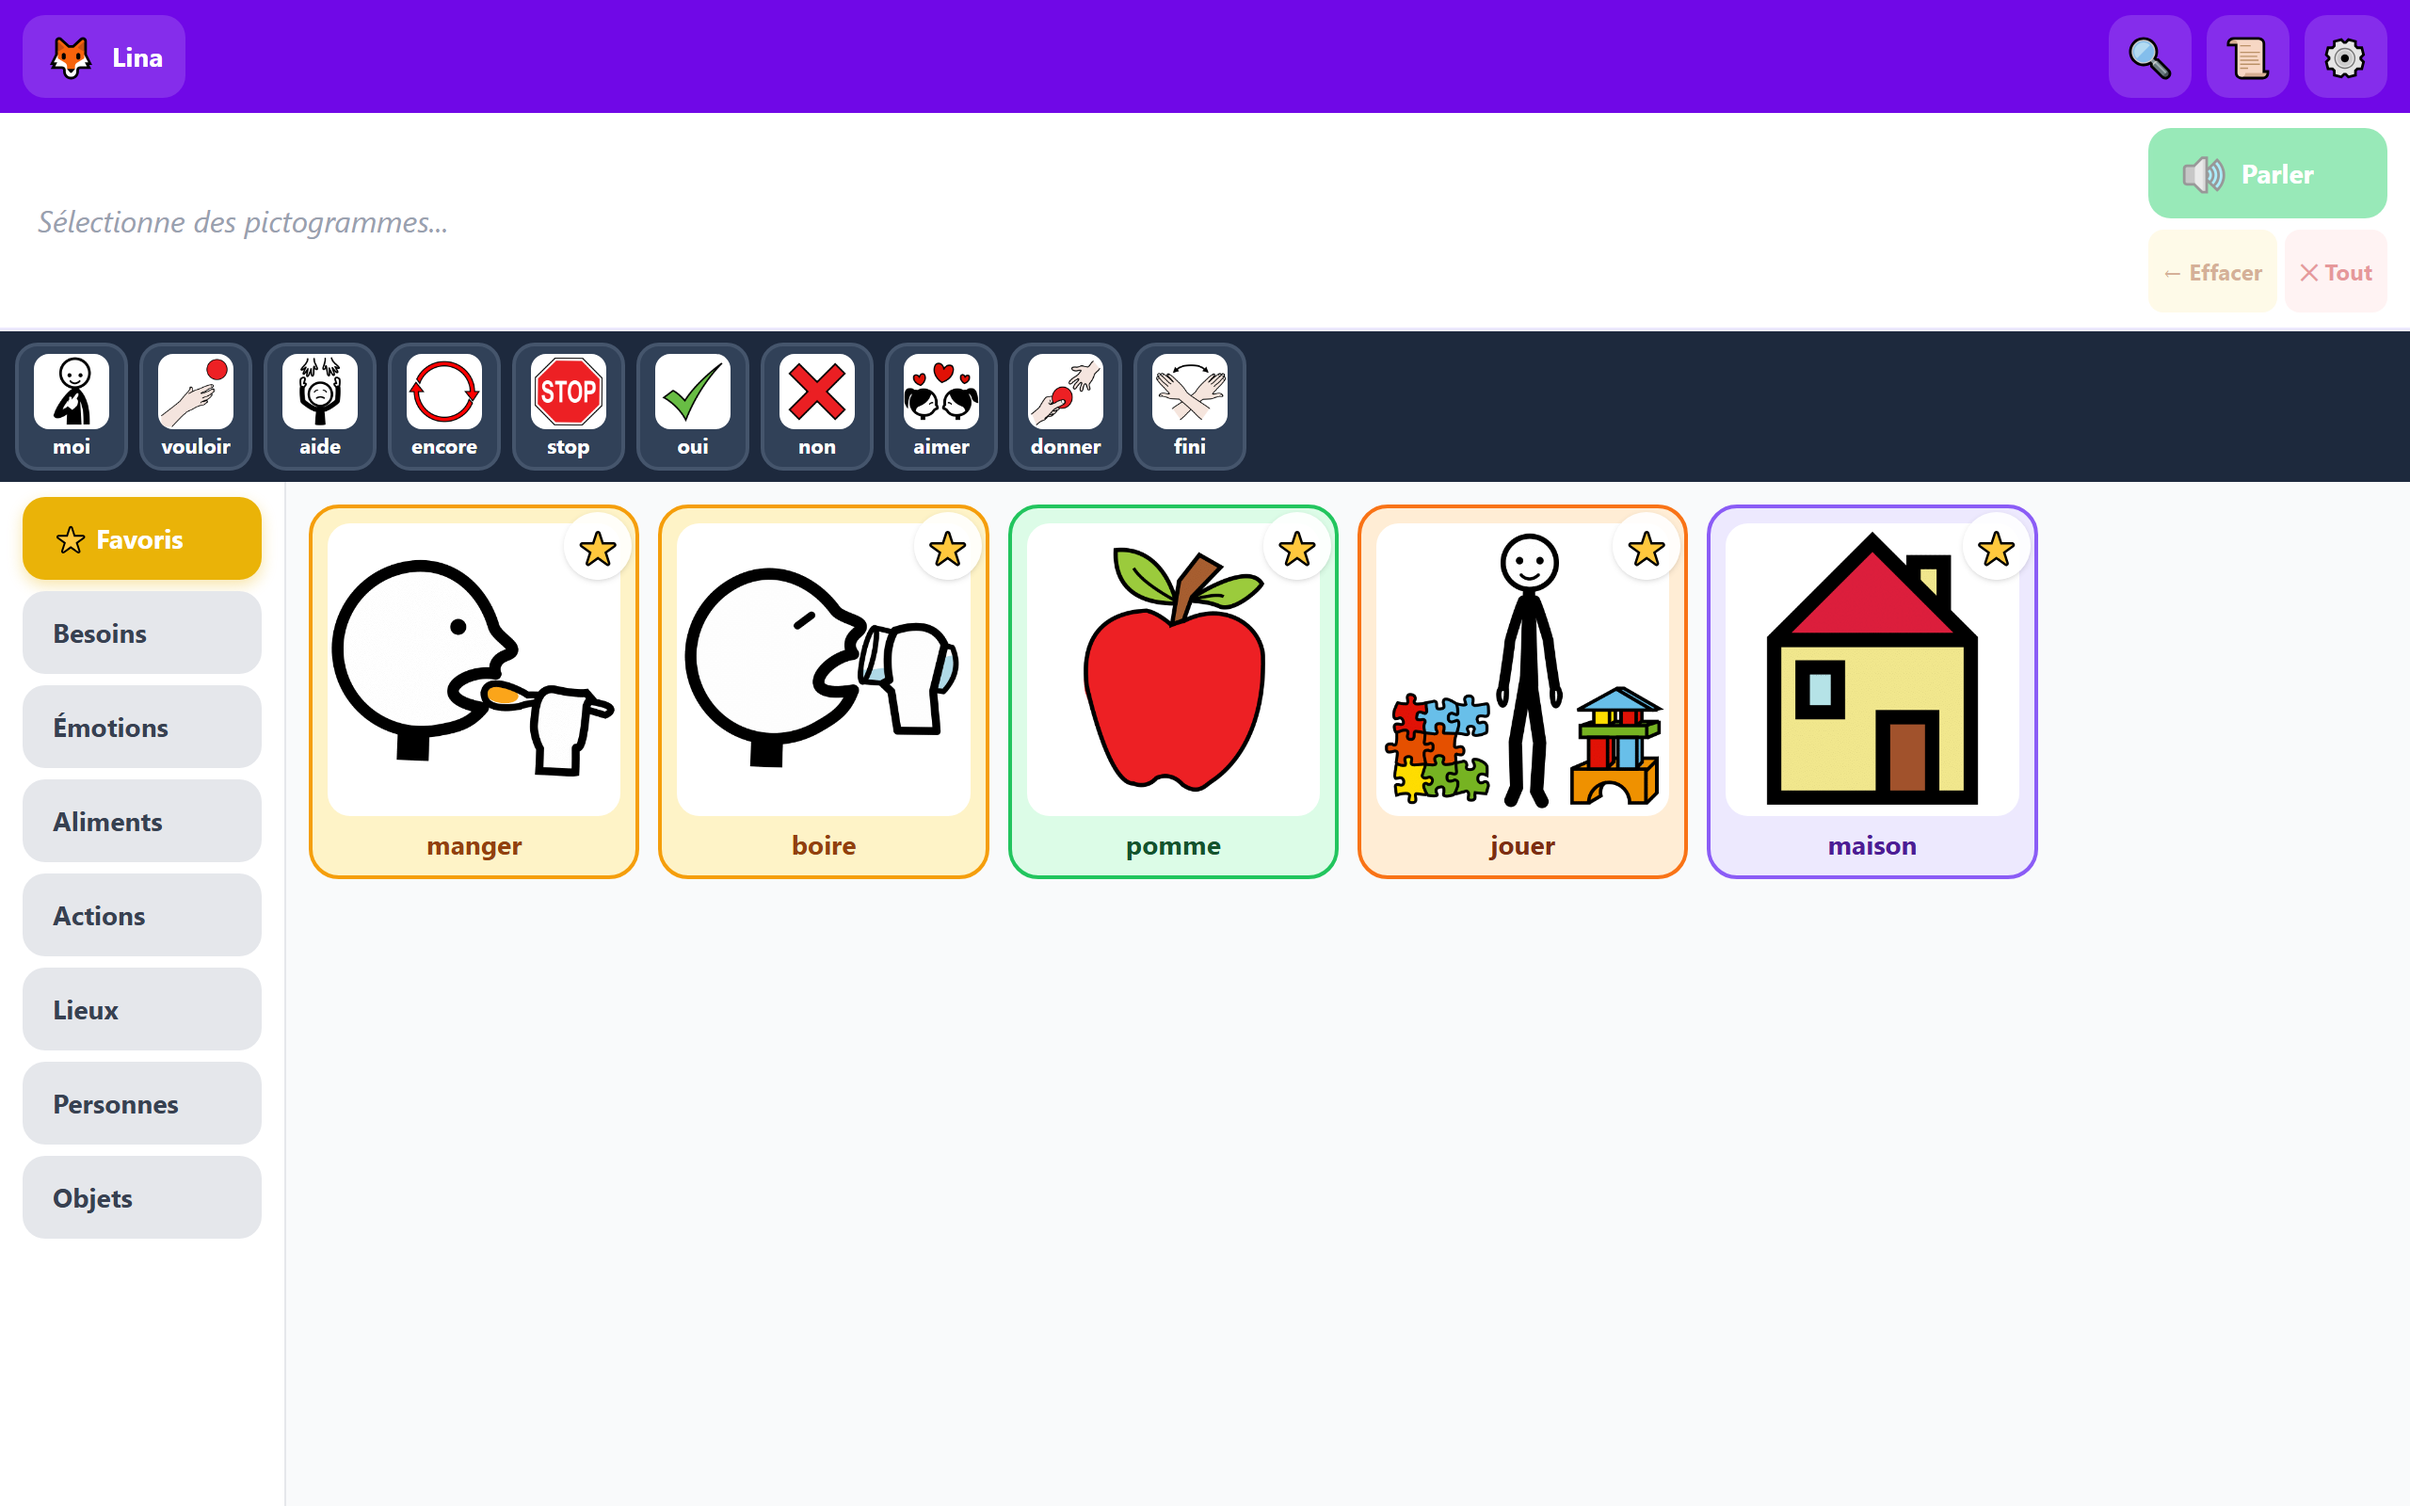
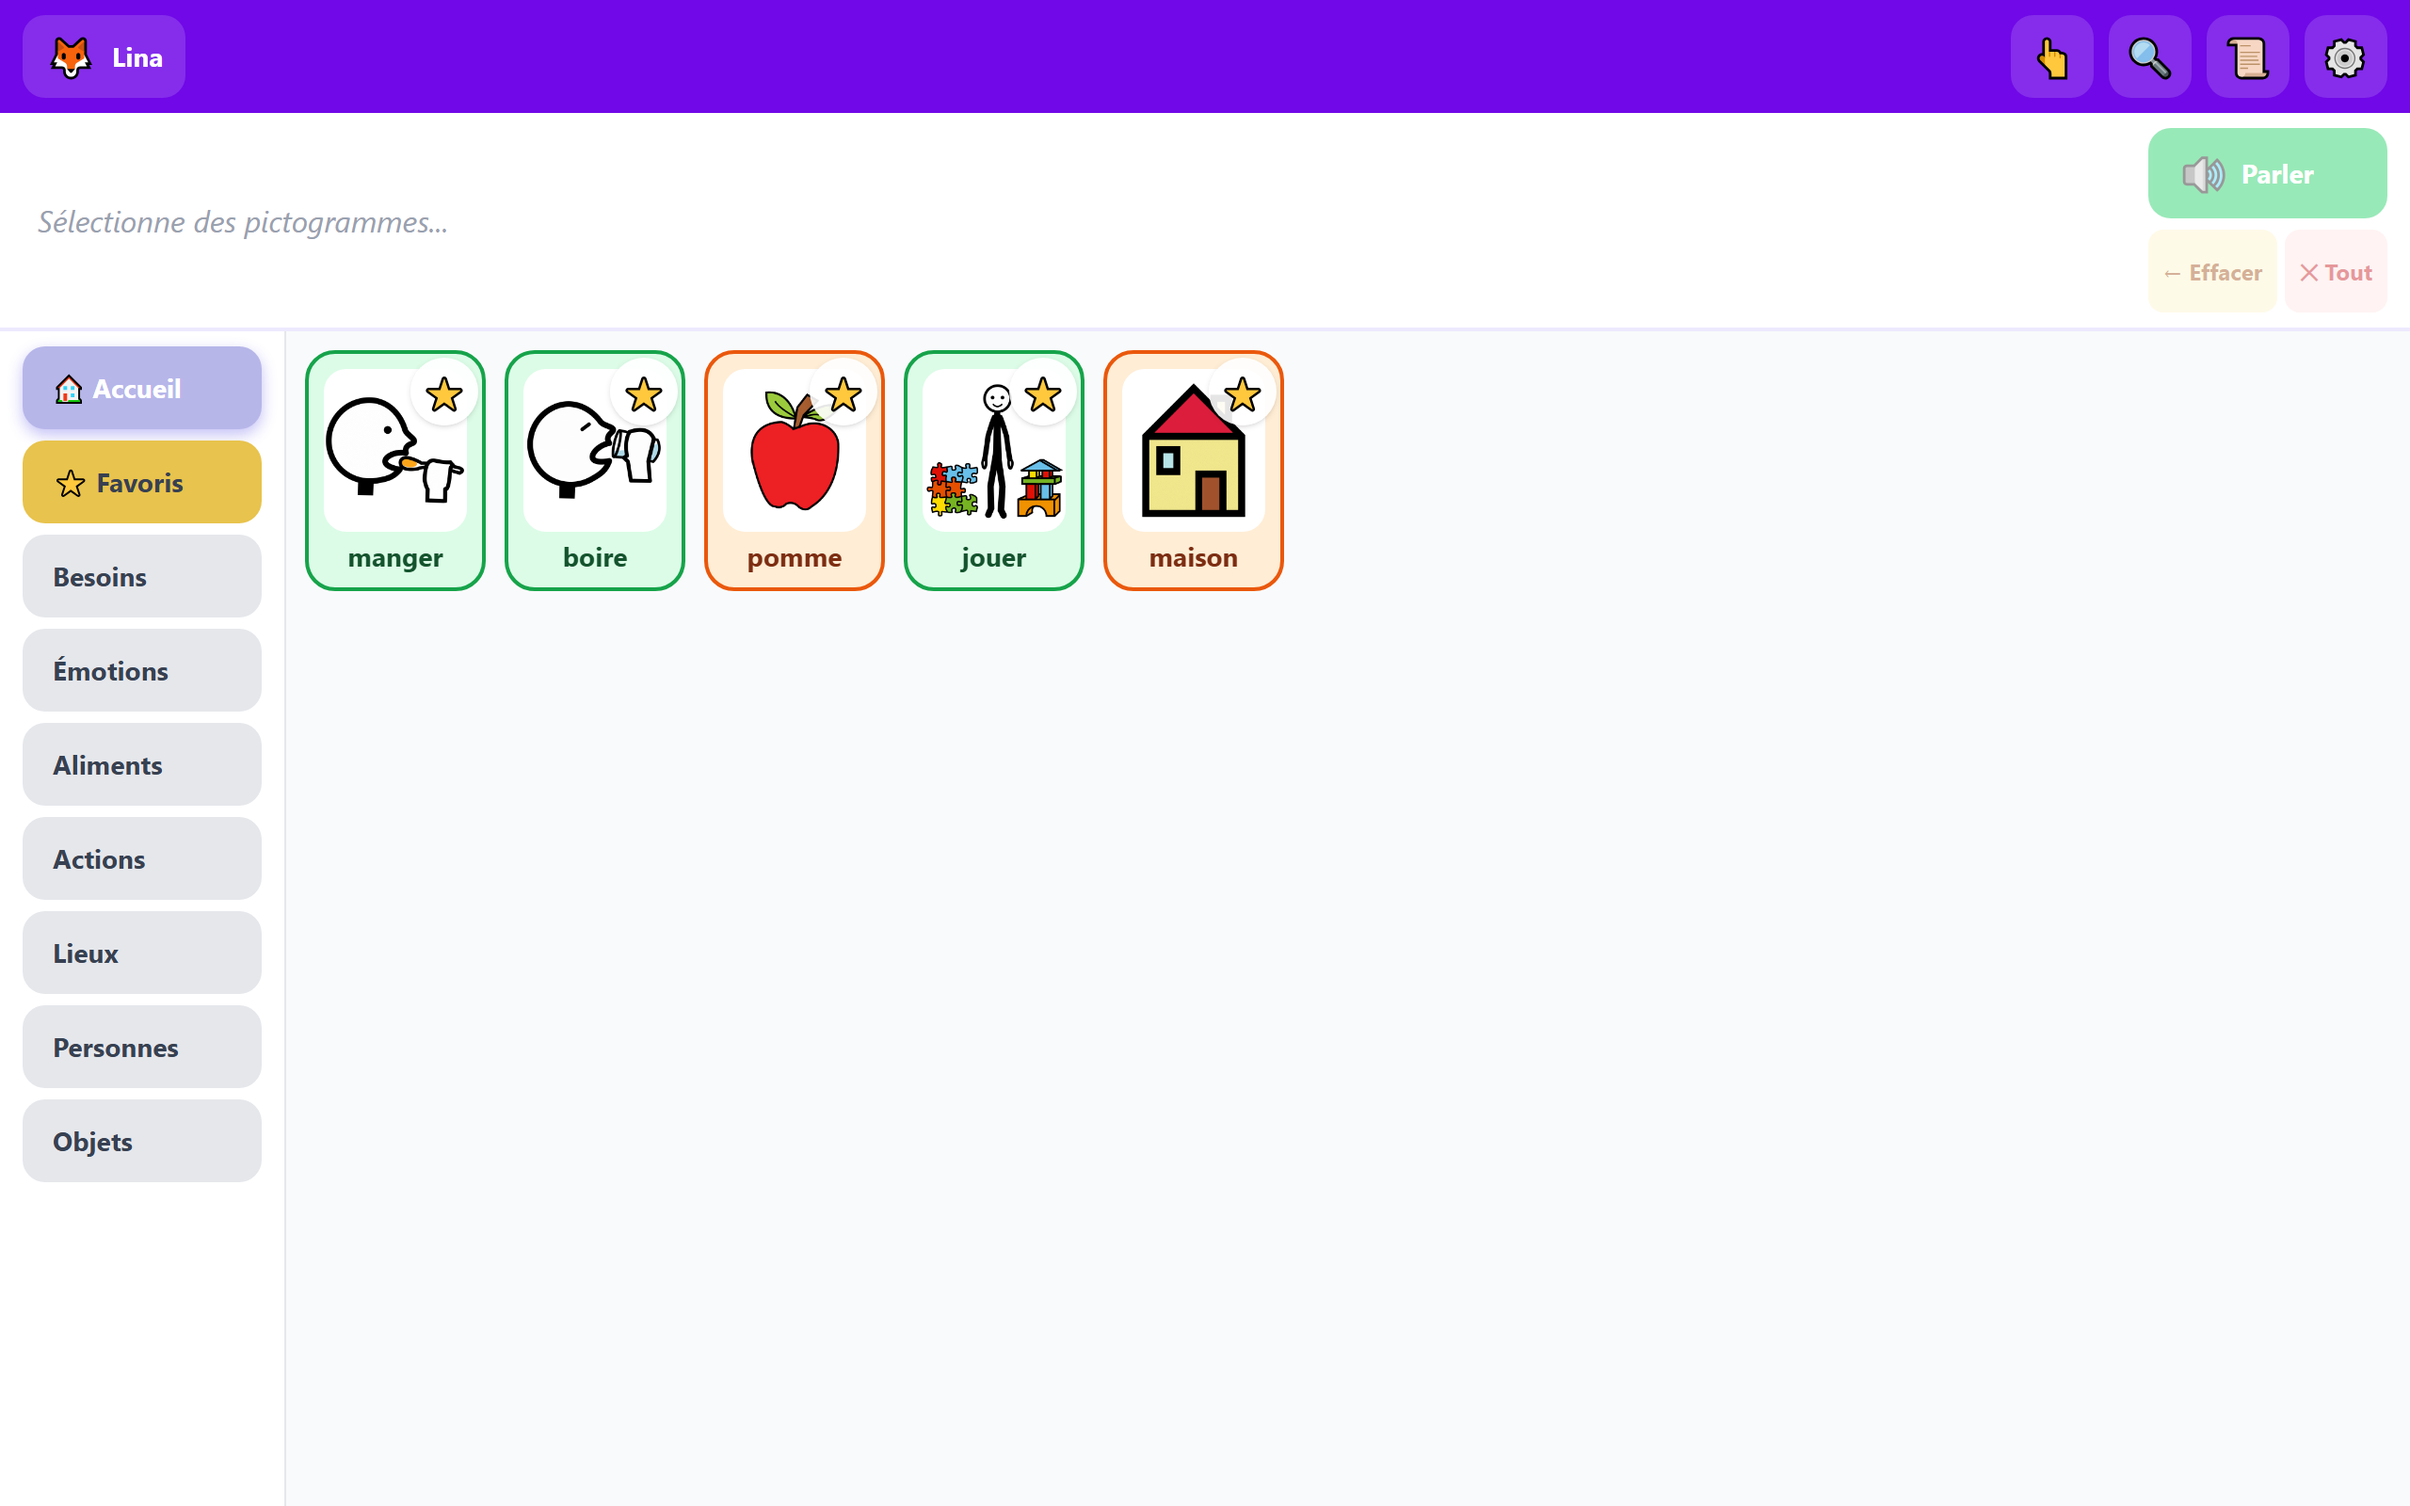
Remettre la fiche Play à l'image du tableau de langage assisté
Les captures montraient encore la barre de mots rapides, et le script qui
les produit était cassé par le refactor sans le dire. Son profil de
démonstration était écrit à l'ancien format : l'application l'aurait
écarté comme un contenu corrompu, et chaque capture aurait photographié
le sélecteur de profils. La scène « phrase » visait en outre la barre
disparue. Le profil suit désormais le format courant, et la scène compose
« moi · vouloir · manger » sur la page d'accueil.

La description longue parle de la page d'accueil au lieu de la barre, et
présente ce que l'application fait désormais : couleurs selon la nature
des mots, phrase construite pour le vocabulaire fourni, mode
modélisation. Le code parent et la recherche de mot, livrés plus tôt, n'y
figuraient pas encore. Rien n'y est promis que l'application ne fasse,
comme l'exige l'examen du programme Familles.

La liste de ce qui manque avant publication est corrigée : un binaire
signé existe, mais il précède le refactor et doit être reconstruit. Et
la réserve sur les captures téléphone est précisée — la grille de six
colonnes y apparaît coupée, problème connu à régler avant de les
publier.

Claude-Session: https://claude.ai/code/session_01AQf6A3uhWRtsWv1i5iemmJ

Changed region(s): [[0.0, 0.2188, 1.0, 0.8438], [0.8125, 0.0, 0.875, 0.0625]]

diff --git a/store/FICHE-STORE.md b/store/FICHE-STORE.md
@@ -36,12 +36,24 @@ l'école et en orthophonie.
 CONÇUE POUR DES ENFANTS QUI ONT BESOIN DE REPÈRES STABLES
 
 • Grandes images, grandes zones à toucher, contrastes marqués
-• Les catégories ne changent jamais de place : l'enfant retrouve un mot au
-  même endroit, ce qui l'aide à aller de plus en plus vite
-• Une barre de mots fréquents (moi, vouloir, aide, encore, stop, oui, non...)
-  reste accessible quelle que soit la catégorie affichée
+• Chaque mot garde toujours sa place dans la grille, même quand d'autres sont
+  masqués : l'enfant le retrouve au même endroit, ce qui l'aide à aller de
+  plus en plus vite
+• Une page d'accueil réunit les mots qui servent le plus souvent (moi,
+  vouloir, aide, encore, stop, oui, non...) et ouvre chaque thème d'une seule
+  touche
+• Des couleurs selon la nature des mots, code répandu en communication
+  alternative, ou selon les thèmes
 • Trois tailles d'affichage, et la possibilité de masquer les pictogrammes
   inutiles pour alléger l'écran
+
+DES PHRASES QUI SONNENT JUSTE
+
+Pour le vocabulaire fourni, l'application prononce une phrase construite :
+« moi · vouloir · manger » devient « je veux manger », « moi · content »
+devient « je suis content » ou « je suis contente ». L'adulte peut préférer
+que chaque mot soit dit tel qu'il a été touché. Les mots que vous ajoutez sont
+prononcés tels quels.
 
 FONCTIONNE SANS CONNEXION
 
@@ -53,6 +65,13 @@ le réseau manque.
 PERSONNALISABLE PAR L'ADULTE
 
 • Jusqu'à 6 profils, un par enfant, chacun avec ses favoris et ses réglages
+• Un code parent protège les réglages : l'enfant ne peut pas les modifier
+  par mégarde
+• Mode modélisation : l'adulte montre comment dire une phrase en touchant
+  les images ; chaque mot est prononcé et s'illumine, sans s'ajouter à la
+  phrase de l'enfant
+• Recherche d'un mot, pour le retrouver vite sans savoir sur quelle page il se
+  trouve
 • Ajout de vos propres pictogrammes, depuis une photo ou depuis la banque
   ARASAAC
 • Réglage de la vitesse et du volume de la voix
@@ -132,20 +151,27 @@ application qui n'existe plus.
 
 Quatre scènes par format, dans l'ordre conseillé de présentation :
 
-1. **phrase** — une phrase composée, « Parler » à portée : c'est l'usage même
-   de l'application, à mettre en premier.
-2. **accueil** — la grille par catégories.
-3. **favoris** — l'onglet Favoris et, sur tablette, la colonne de catégories
-   du mode paysage.
+1. **phrase** — « moi · vouloir · manger » composé sur l'accueil, « Parler »
+   à portée : c'est l'usage même de l'application, à mettre en premier.
+2. **accueil** — la page d'accueil : les mots les plus fréquents, et une case
+   vers chaque thème (coin replié).
+3. **favoris** — l'onglet Favoris et, sur tablette, la colonne d'onglets du
+   mode paysage.
 4. **reglages** — les réglages parents, où figure aussi le lien vers la
    politique de confidentialité.
+
+Le profil de démonstration est écrit dans `scripts/store-assets.mjs`, au
+format enregistré par l'application. **Il est à reprendre à chaque changement
+de ce format** : un format périmé est écarté sans bruit, et toutes les
+captures montreraient alors le sélecteur de profils.
 
 Deux réserves à connaître :
 
 - Les captures « téléphone » sont rendues à **500 px CSS de large**, plancher
-  imposé par Chrome en mode headless. Un téléphone courant fait plutôt 360 à
-  430 px et affichera donc une colonne de moins. À contrôler sur un appareil
-  réel avant publication.
+  imposé par Chrome en mode headless. La grille ayant six colonnes fixes, la
+  cinquième y apparaît coupée — et la quatrième le sera sur un téléphone
+  courant (360 à 430 px), où la grille défile en largeur. Problème connu, à
+  régler avant de publier ces captures.
 - La bannière « Installer » est retirée pendant la capture : elle vient de
   l'événement `beforeinstallprompt` du navigateur et ne peut pas apparaître
   dans l'application installée depuis Play.
@@ -157,7 +183,10 @@ Deux réserves à connaître :
 - Compte développeur Google Play créé et identité vérifiée. L'adresse exigée à
   cette occasion devra concorder avec la politique de confidentialité, qui
   n'en mentionne aujourd'hui aucune (`docs/PLAY-CONFORMITE.md` §4).
-- Empaquetage Android (Capacitor) : il n'existe à ce jour aucun binaire à
-  téléverser.
+- Binaire Android à reconstruire : le bundle signé du 9 septembre 2026
+  précède le tableau de langage assisté. Le reconstruire et rejouer les
+  vérifications sur tablette (`docs/EMPAQUETAGE-ANDROID.md` §7).
+- Affichage sur téléphone : la grille de six colonnes ne tient pas en
+  largeur, sans indice de défilement (voir la réserve du §3).
 - Questionnaire de classification du contenu, à remplir dans la console.
 - Test fermé avant diffusion publique.
